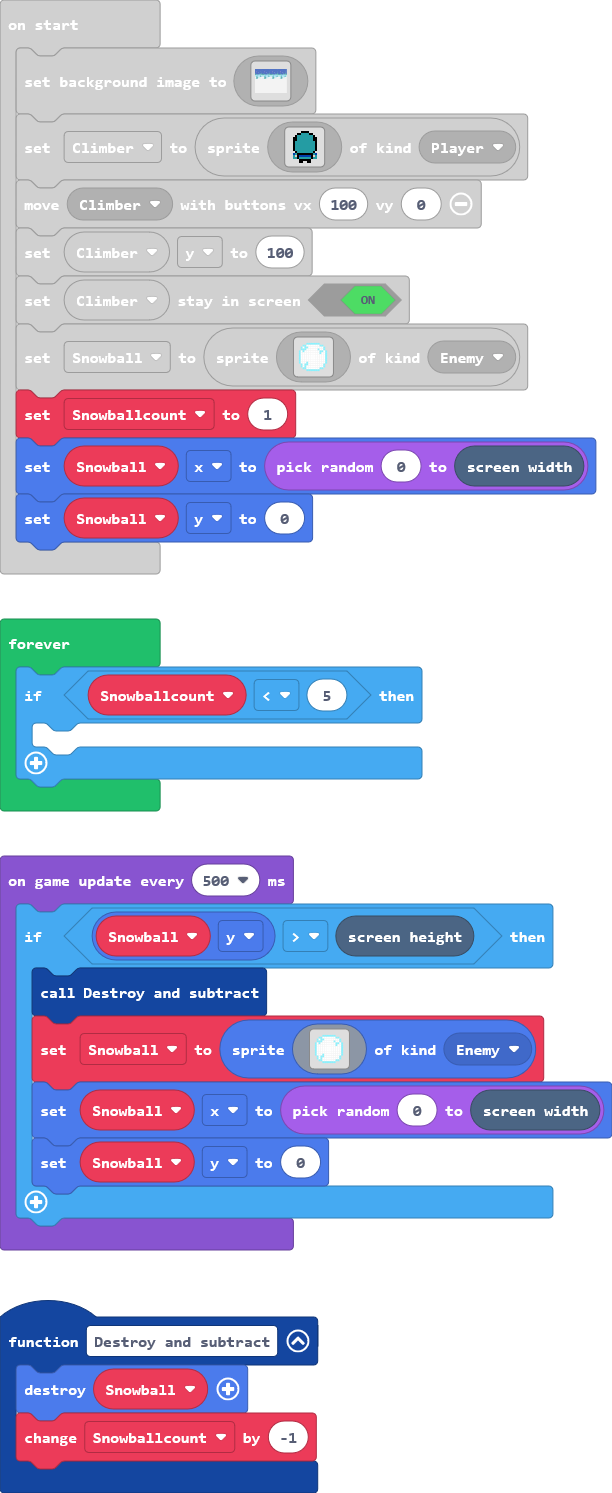
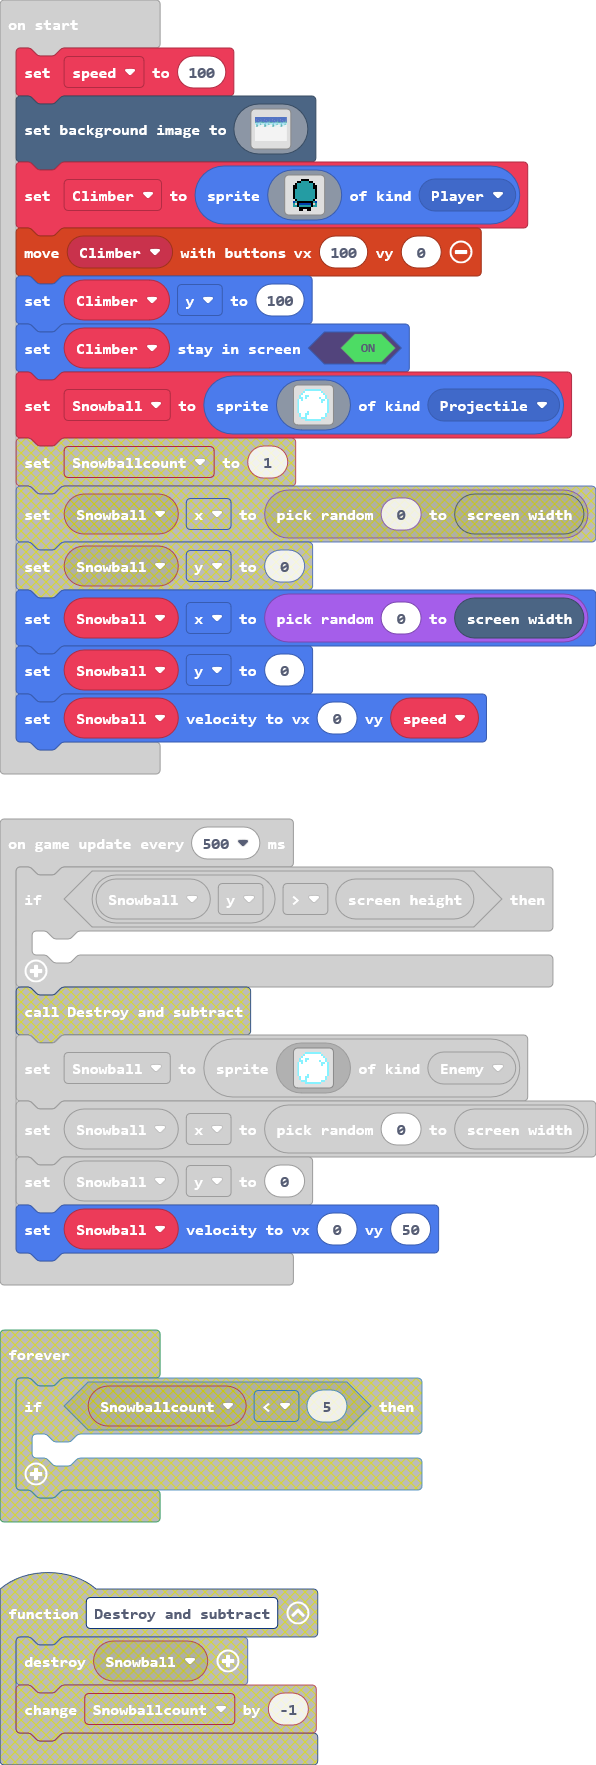
Fixed sprite size

diff --git a/images.g.ts b/images.g.ts
@@ -145,26 +145,6 @@ namespace myImages {
 1111111111111111111111111111111111111111111111111111111111111111111111111111111111111111111111111111111111111111111111111111111111111111111111111111111111111111
 1111111111111111111111111111111111111111111111111111111111111111111111111111111111111111111111111111111111111111111111111111111111111111111111111111111111111111
 `;
-            case "image2":
-            case "Snowball":return img`
-. . . . . . . . . . . . . . . . . 
-. . . . . 9 9 9 9 9 9 9 . . . . . 
-. . . 9 9 1 1 1 1 1 1 1 9 9 . . . 
-. . 9 1 9 9 1 1 1 1 1 1 1 1 9 . . 
-. . 9 9 9 1 1 1 1 1 1 9 1 1 9 . . 
-. 9 1 9 1 1 1 1 1 1 1 1 9 9 1 9 . 
-. 9 1 1 1 1 1 1 1 1 1 1 9 1 1 9 . 
-. 9 1 1 1 1 1 1 1 1 1 1 1 1 1 9 . 
-. 9 1 1 1 1 1 1 1 1 1 1 1 1 1 9 . 
-. 9 1 1 1 1 1 1 1 1 1 1 1 1 1 9 . 
-. 9 1 1 1 1 1 1 1 1 1 1 1 1 1 9 . 
-. 9 1 1 1 9 1 1 1 1 1 1 1 1 1 9 . 
-. . 9 1 9 9 1 1 1 1 1 1 1 1 9 . . 
-. . 9 1 9 1 1 1 1 1 1 1 1 1 9 . . 
-. . . 9 9 1 1 1 1 1 1 1 9 9 . . . 
-. . . . . 9 9 9 9 9 9 9 . . . . . 
-. . . . . . . . . . . . . . . . . 
-`;
             case "image6":
             case "Climber walk1":return img`
 . . . . . . f f f f . . . . . . 
@@ -202,6 +182,25 @@ namespace myImages {
 . . 6 6 f 6 6 6 6 6 6 f 6 6 . . 
 . . . . . f f f f 6 6 . . . . . 
 . . . . . f f . . . . . . . . . 
+`;
+            case "image2":
+            case "Snowball":return img`
+. . . . 9 9 9 9 9 9 9 9 . . . . 
+. . . 9 1 1 1 1 1 1 1 1 9 . . . 
+. . 9 1 1 1 1 1 1 1 1 1 1 9 . . 
+. 9 1 1 9 9 1 1 1 1 1 1 1 1 9 . 
+. 9 9 1 9 1 1 1 1 1 1 9 1 1 9 . 
+9 1 9 1 1 1 1 1 1 1 1 1 9 9 1 9 
+9 1 1 1 1 1 1 1 1 1 1 1 9 1 1 9 
+9 1 1 1 1 1 1 1 1 1 1 1 1 1 1 9 
+9 1 1 1 1 1 1 1 1 1 1 1 1 1 1 9 
+9 1 1 1 1 1 1 1 1 1 1 1 1 1 1 9 
+9 1 1 1 1 1 1 1 1 1 1 1 1 1 1 9 
+9 1 1 1 1 9 1 1 1 1 1 1 1 1 1 9 
+. 9 1 1 9 9 1 1 1 1 1 1 1 1 9 . 
+. 9 1 1 9 1 1 1 1 1 1 1 1 1 9 . 
+. . 9 9 9 1 1 1 1 1 1 1 9 9 . . 
+. . . . 9 9 9 9 9 9 9 9 . . . . 
 `;
         }
         return null;

diff --git a/main.ts b/main.ts
@@ -1,27 +1,18 @@
-function Destroy_and_subtract () {
-    sprites.destroy(Snowball)
-    Snowballcount += -1
-}
-let Snowball: Sprite = null
+let speed = 100
 scene.setBackgroundImage(assets.image`Bigger mountain`)
 let Climber = sprites.create(assets.image`Climber back`, SpriteKind.Player)
 controller.moveSprite(Climber, 100, 0)
 Climber.y = 100
 Climber.setStayInScreen(true)
-Snowball = sprites.create(assets.image`Snowball`, SpriteKind.Enemy)
-let Snowballcount = 1
+let Snowball = sprites.create(assets.image`Snowball`, SpriteKind.Projectile)
 Snowball.x = randint(0, scene.screenWidth())
 Snowball.y = 0
-forever(function () {
-    if (Snowballcount < 5) {
-    	
-    }
-})
+Snowball.setVelocity(0, speed)
 game.onUpdateInterval(500, function () {
     if (Snowball.y > scene.screenHeight()) {
-        Destroy_and_subtract()
         Snowball = sprites.create(assets.image`Snowball`, SpriteKind.Enemy)
         Snowball.x = randint(0, scene.screenWidth())
         Snowball.y = 0
+        Snowball.setVelocity(0, 50)
     }
 })

diff --git a/main.py b/main.py
@@ -9,23 +9,18 @@ Climber.y = 100
 Climber.set_stay_in_screen(True)
 Snowball = sprites.create(assets.image("""
     Snowball
-"""), SpriteKind.enemy)
+"""), SpriteKind.projectile)
 Snowball.x = randint(0, scene.screen_width())
 Snowball.y = 0
-
-def on_forever():
-    Snowballcount = 0
-    if Snowballcount < 5:
-        pass
-forever(on_forever)
+Snowball.set_velocity(0, 50)
 
 def on_update_interval():
     global Snowball
     if Snowball.y > scene.screen_height():
-        sprites.destroy(Snowball)
         Snowball = sprites.create(assets.image("""
             Snowball
         """), SpriteKind.enemy)
         Snowball.x = randint(0, scene.screen_width())
         Snowball.y = 0
+        Snowball.set_velocity(0, 50)
 game.on_update_interval(500, on_update_interval)
